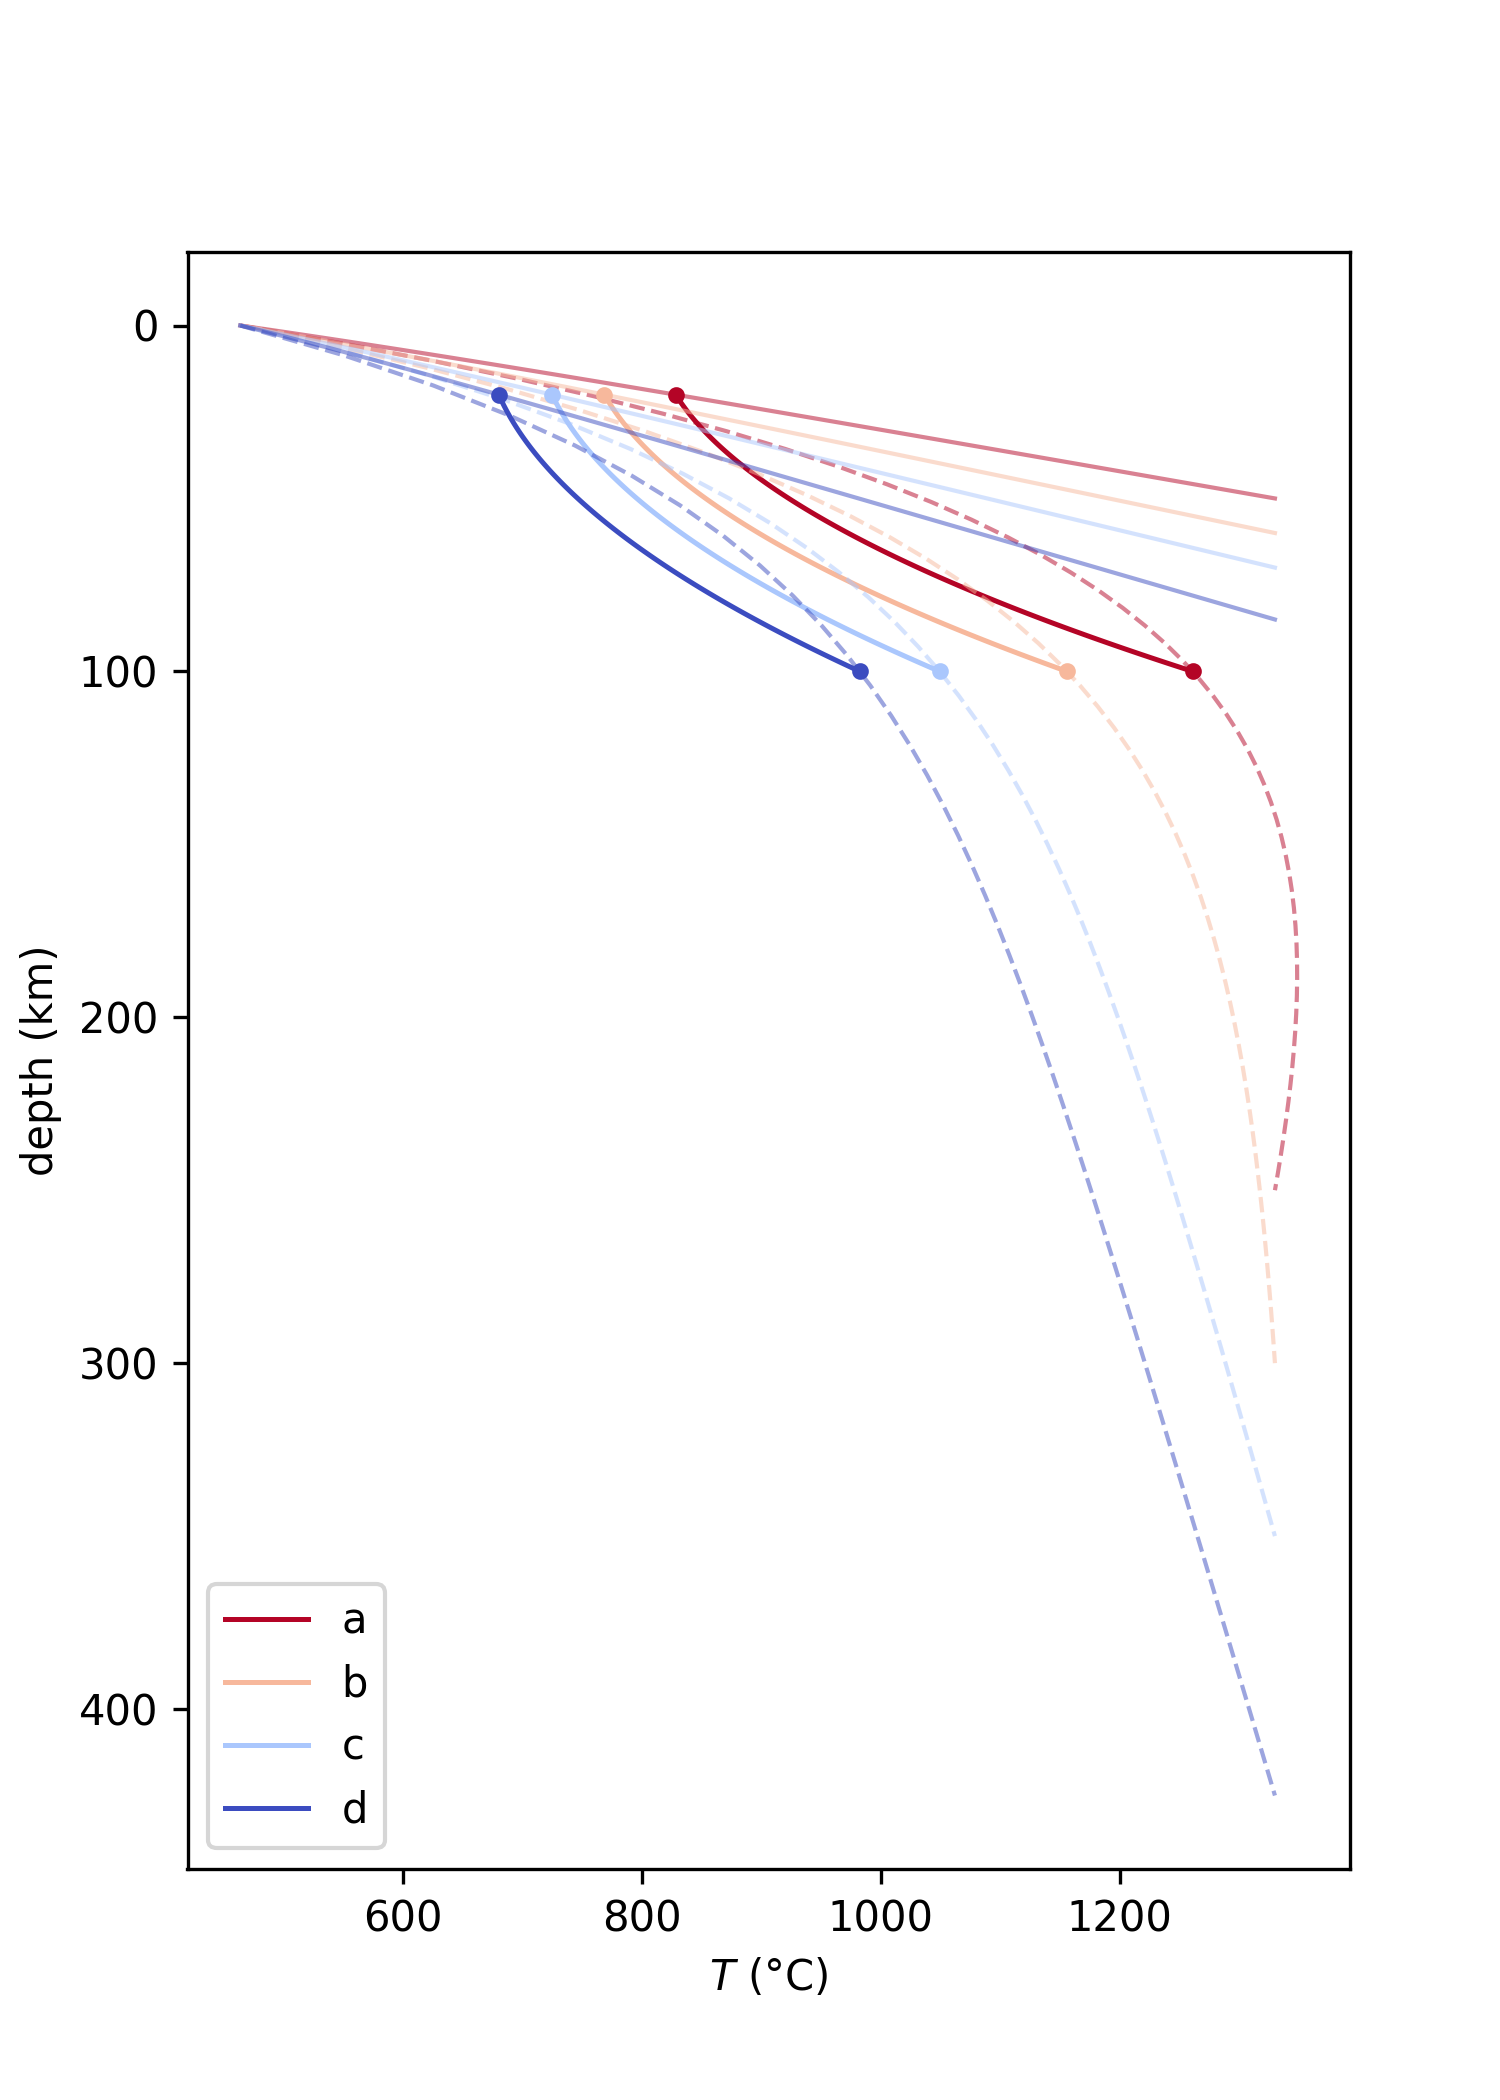
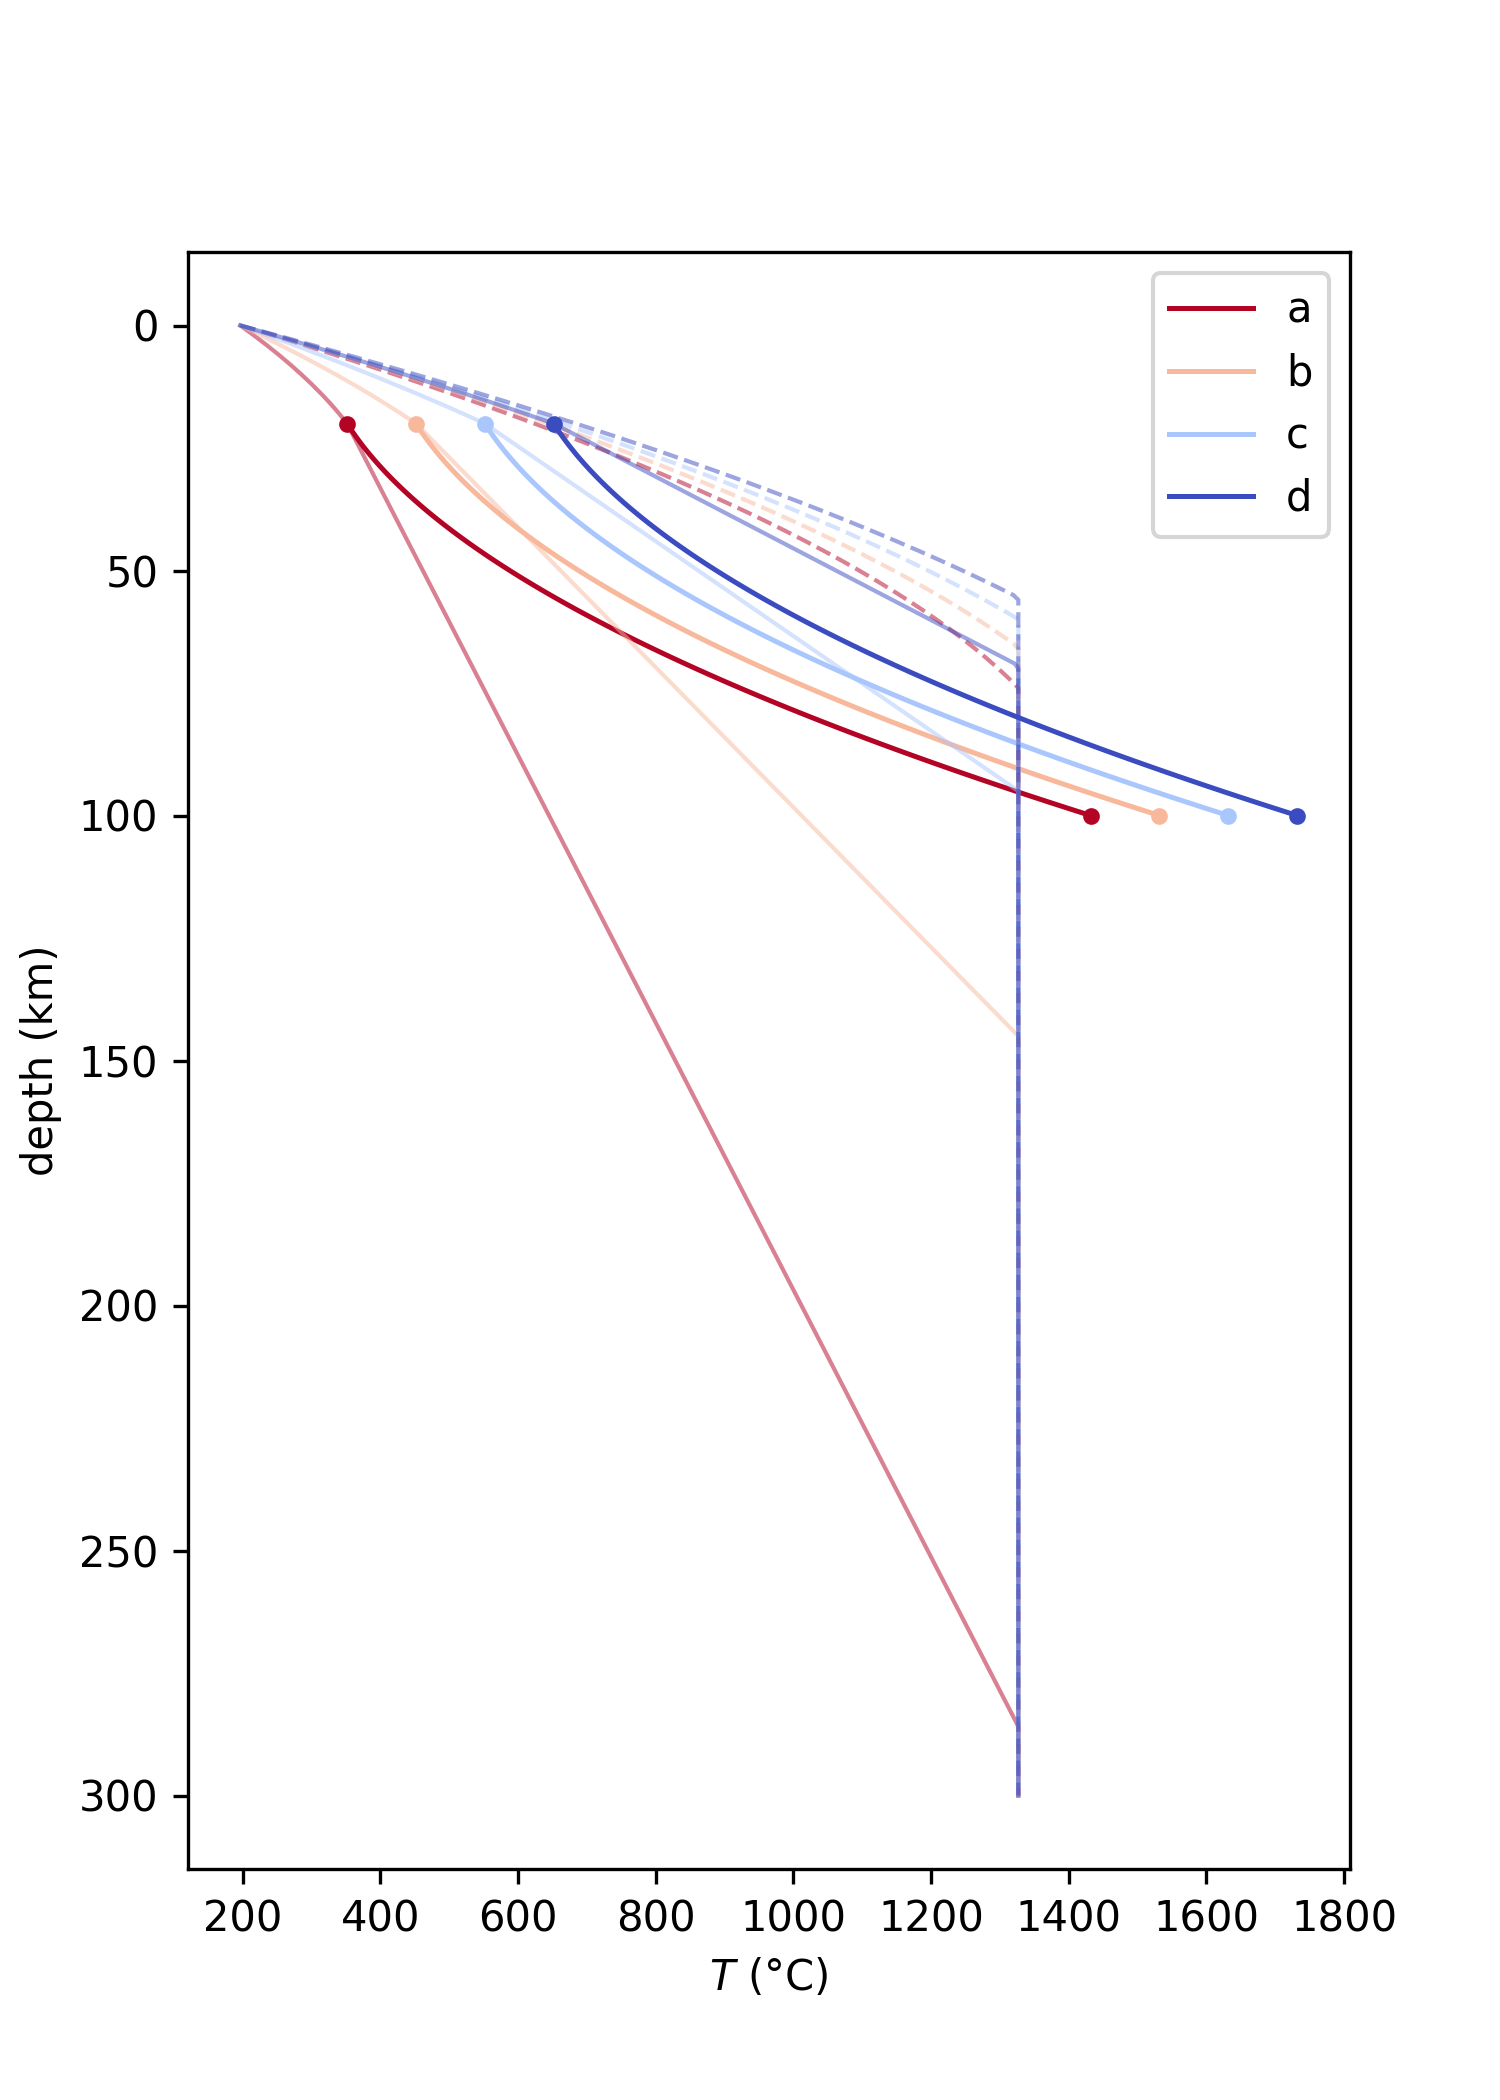
update venus model to use Nimmo & Mackwell equations

diff --git a/models/output/venus_model/mafic_slb21_rx/_geotherms_table.tex b/models/output/venus_model/mafic_slb21_rx/_geotherms_table.tex
@@ -2,14 +2,14 @@
 \toprule
 & & a & b & c & d \\
 \midrule
-$A_{s}$ & \si{\uW\per\m\cubed} & 0.90 & 0.70 & 0.70 & 0.60 \\
-$L_{0}$ & \si{\km} & 50 & 60 & 70 & 85 \\
+$A_{s}$ & \si{\uW\per\m\cubed} & 0.45 & 0.45 & 0.45 & 0.45 \\
+$L_{0}$ & \si{\km} & 286 & 146 & 96 & 70 \\
 $z_{0}$ & \si{\km} & 20 & 20 & 20 & 20 \\
-$h_{r0}$ & \si{\km} & 12.0 & 12.0 & 10.0 & 10.0 \\
 \midrule
-$q_{s0}$ & \si{\mW\per\m\squared} & 60 & 50 & 43 & 36 \\
-$q_{s1}$ & \si{\mW\per\m\squared} & 52 & 42 & 37 & 33 \\
-$T_{0}$ & \si{\degreeCelsius} & 828 & 769 & 725 & 680 \\
-$T_{1}$ & \si{\degreeCelsius} & 1261 & 1156 & 1049 & 982 \\
+$q_{m0}$ & \si{\mW\per\m\squared} & 11 & 21 & 31 & 41 \\
+$q_{s0}$ & \si{\mW\per\m\squared} & 20 & 30 & 40 & 50 \\
+$q_{s1}$ & \si{\mW\per\m\squared} & 47 & 49 & 51 & 53 \\
+$T_{0}$ & \si{\degreeCelsius} & 352 & 452 & 552 & 652 \\
+$T_{1}$ & \si{\degreeCelsius} & 1432 & 1532 & 1632 & 1732 \\
 \bottomrule
 \end{tabular}
